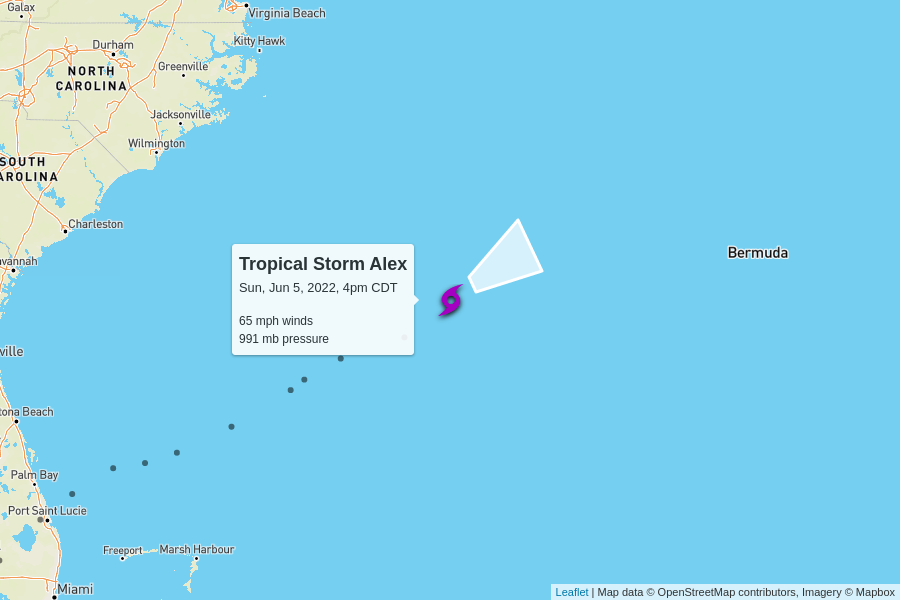
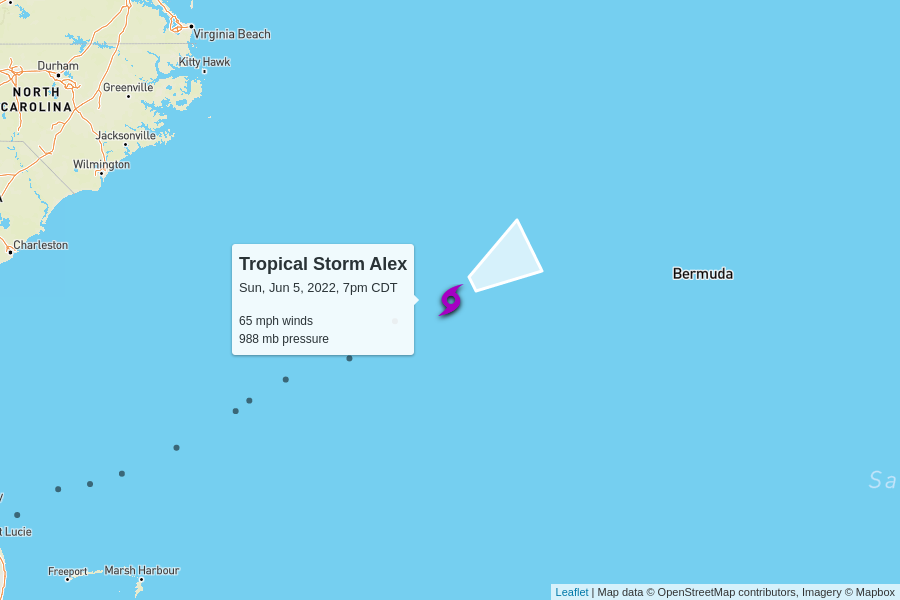
automatic update

diff --git a/docs/index.html b/docs/index.html
@@ -100,7 +100,7 @@
         <td colspan="6" class="storm category-0" >
           <h2>
             Tropical Storm Alex
-            <p class="updated">last updated <span data-time>2022-06-05T21:00:00.000Z</span></p>
+            <p class="updated">last updated <span data-time>2022-06-06T00:00:00.000Z</span></p>
           </h2>
         </td>
       </tr>
@@ -116,9 +116,9 @@
       <tr>
         <td class="spacer"></td>
         <td>65 mph</td>
-        <td>991 mb</td>
+        <td>988 mb</td>
         <td>
-          28 mph to the east-northeast
+          26 mph to the east-northeast
           <br/>
           <span style="display: inline-block; font-size: 1.5em; transform: rotate(60deg);">↑</span>
         </td>
